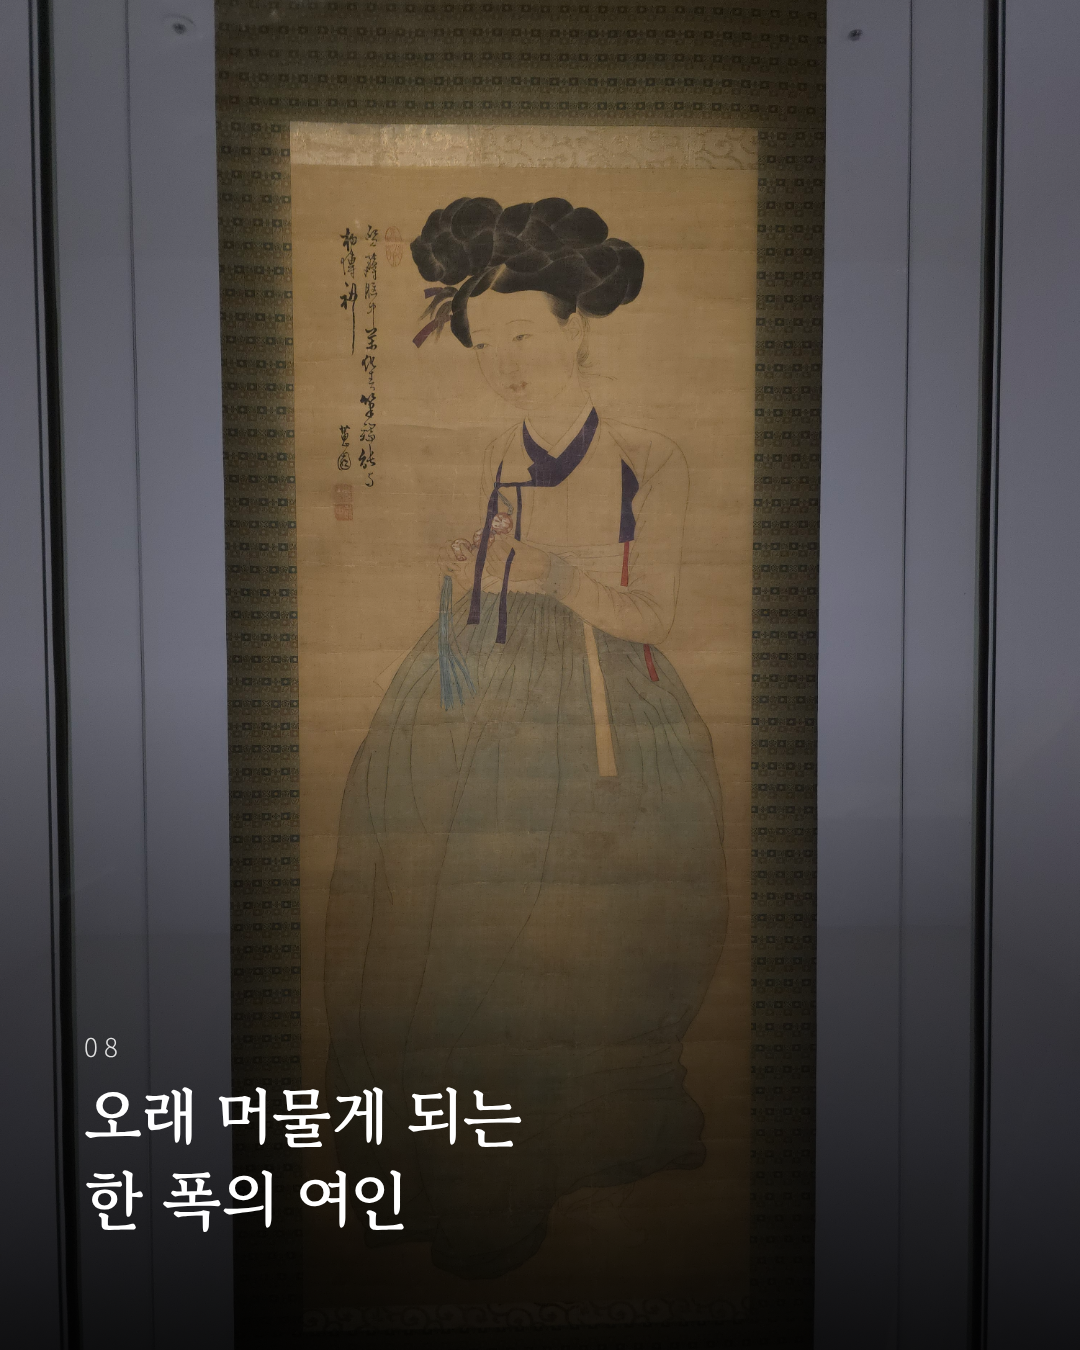
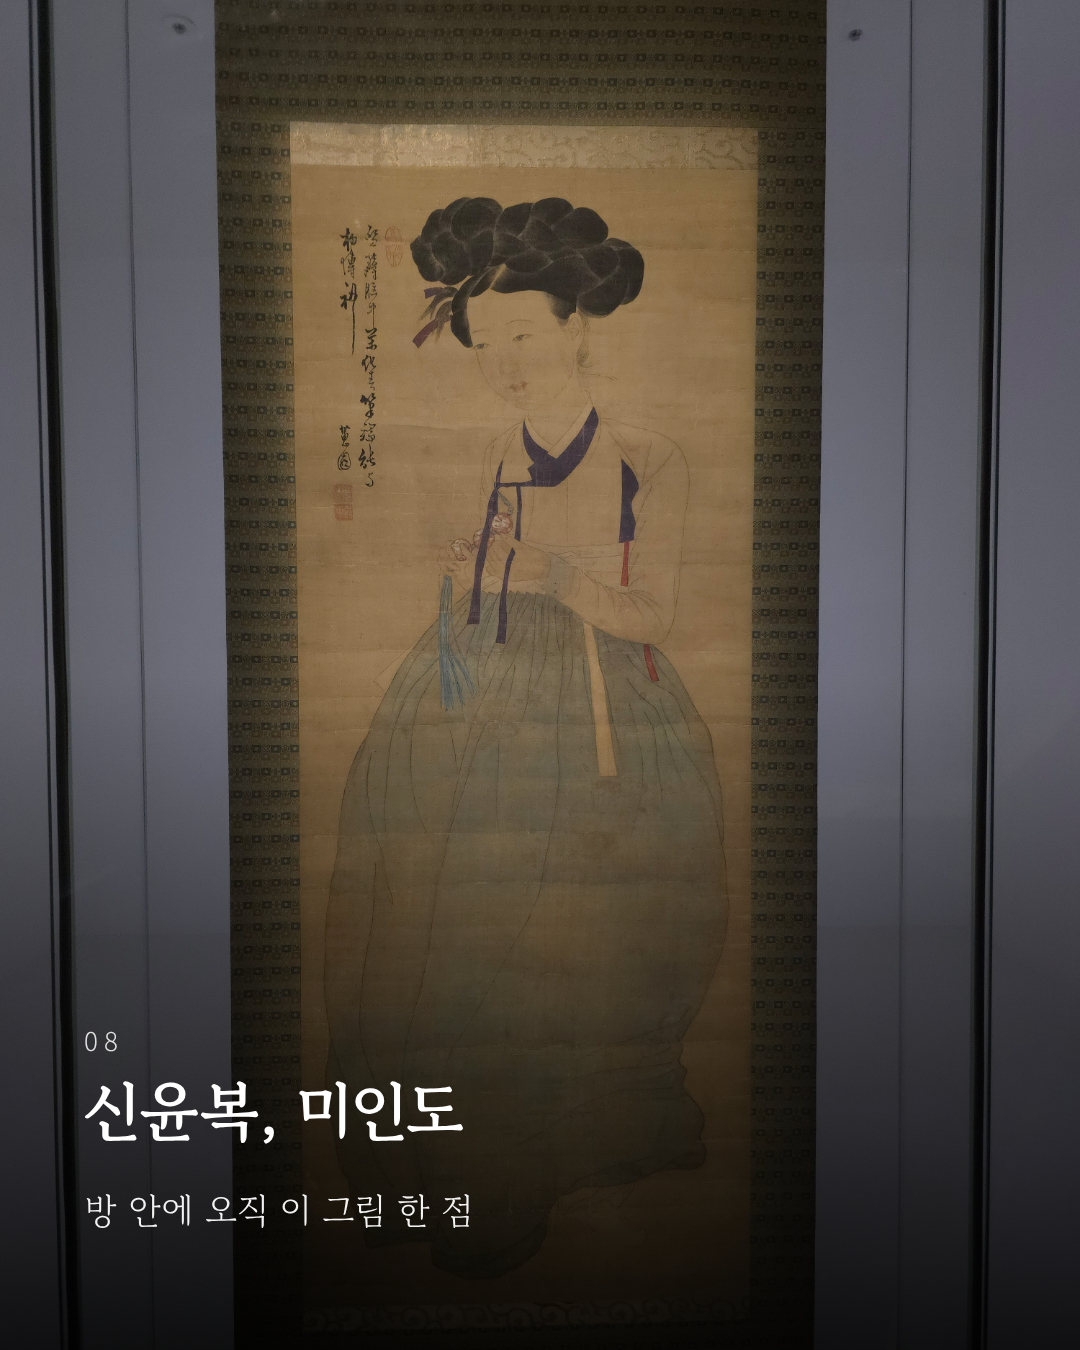
Gansong card 9: 신윤복 미인도
Claude-Session: https://claude.ai/code/session_01DMuKcpM29d5FHQdT8b35KP

Changed region(s): [[0.0611, 0.7778, 0.4889, 0.9333]]

diff --git a/gansong/cards.html b/gansong/cards.html
@@ -98,7 +98,8 @@ p{font-size:36px;line-height:1.7;margin-top:28px;opacity:.95}
   <div class="shade bot"></div>
   <div class="txt" style="bottom:110px">
     <div class="num">08</div>
-    <h2>오래 머물게 되는<br>한 폭의 여인</h2>
+    <h2>신윤복, 미인도</h2>
+    <p>방 안에 오직 이 그림 한 점</p>
   </div>
 </div>
 
